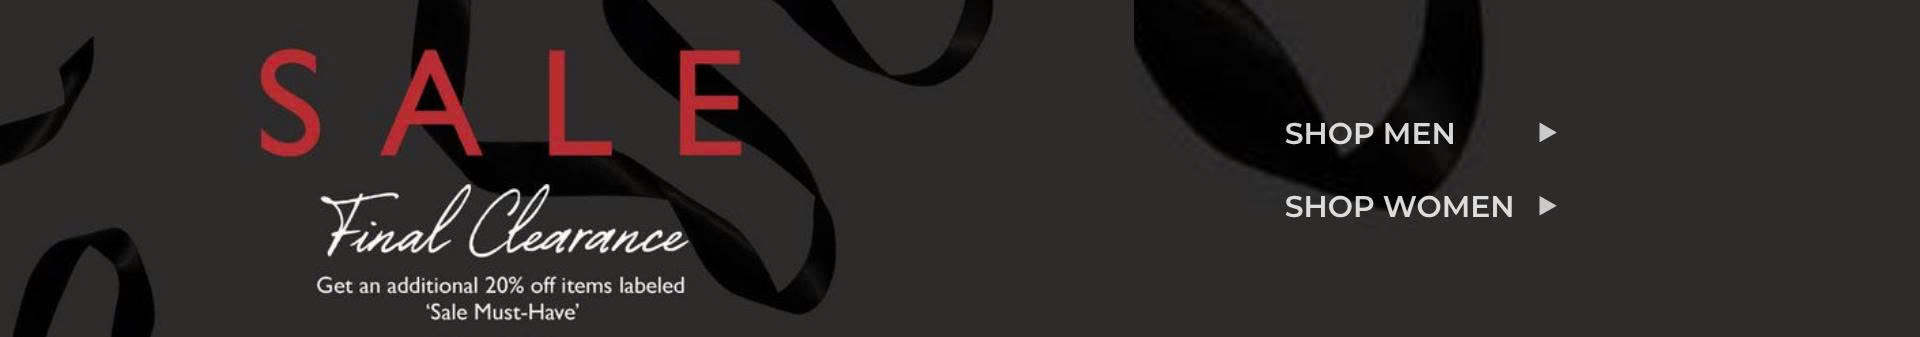
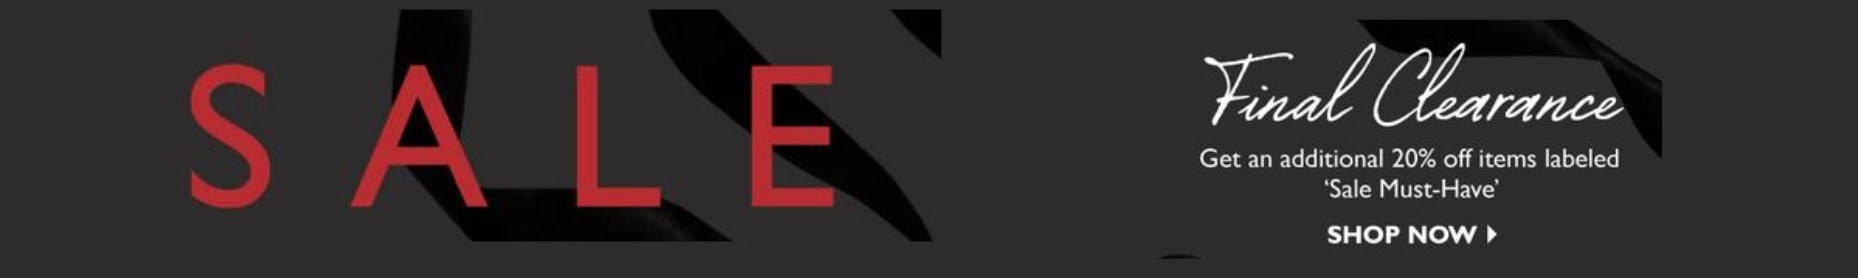
u

diff --git a/desktop.html b/desktop.html
@@ -3882,18 +3882,19 @@ window.RESP = (function () {
      Da dung lai ca 4 phuong an bang PIL roi XEM tung tam, khong suy luan.
      ⇒ CAN ANH XUAT LAI o 1440x186 (hoac bat ky ti le 7,74) thi banner moi day du. Doi anh
      xong thi khong phai sua rule nay, chi bo `object-position` ve 50% 50%.
-     ── ANH DA DOI (cung ngay): nay la "The Jewelry Gift Card Event", 1858x278 = 6,684 ────
-     Ti le o KHONG DOI (1440/186 la con so user chot), nhung anh moi det hon nen chuyen cat
-     khac han: giu 240/278 = 86,3% chieu cao (truoc la 73,6%), va vung chu chi can 211 hang
-     -> VUA, con 29 hang du. Tuc **khong mat chu nao** — khac ban SALE.
-     Nhung `object-position` phai doi tu 31% sang **100%**, va day khong phai chuyen tham my:
-       chu do sam trai tu y 59 den y 269 (do bang PIL: (R - max(G,B)) > 55 VA max(G,B) < 110 —
-       phai co dieu kien thu hai, khong thi mau DA va MOI cua nguoi mau cung dem la chu);
-       cua so cao 240 nen `oy` chi duoc trong [29, 38] moi bao het chu, tuc canh doc >= 76,3%.
-       `50% 50%` (oy = 19) CAT 10 hang duoi, an vao dong "Use code JEWELRY at checkout" va nut
-       "SHOP NOW"; `50% 85%` du chu nhung chi con 3 hang duoi dong cuoi; `50% 100%` giu dung
-       le duoi 9 hang MA CHINH THIET KE co, chi cat 38 hang tren (phan do khong co chu nao).
-     Anh moi ti le 6,684 nen muon cat 0 pixel thi o phai la 1440/215.
+     ── ANH DOI HAI LAN, day la lan thu hai (10/09/2026) ─────────────────────────────────
+     Lan 1 (08/09): "The Jewelry Gift Card Event", 1858x278 = 6,684 — vung chu y 59..269 nen
+     `oy` chi duoc trong [29, 38], phai khai `object-position: 50% 100%`.
+     Lan 2 (10/09): user thay bang ban NGANG MOI cua chinh "Final Clearance", CUNG KHO
+     1858x278. Ti le o KHONG DOI (1440/186 = 7,742 la con so user chot), va o giu 240/278 =
+     86,3% chieu cao.
+     VUNG CHU CUA TAM MOI CHI 199 HANG (y 44..242) nen o con **du 41 hang** — tuc `oy` duoc
+     nam trong [2, 38], gan nhu MOI gia tri canh doc deu giu du chu. Vi vay `object-position`
+     ve **50% 50%** (mac dinh): no thoi la mot con so phai tinh, va de mac dinh thi le con
+     lai 25 tren / 17 duoi, van giu dung quan he "le tren lon hon le duoi" cua chinh art
+     (44/36). Do bang PIL: diem chu DO (R - max(G,B)) > 55 hoac chu TRANG (L > 150).
+     Ti le art la 6,684 nen muon cat 0 pixel thi o phai la 1440/215 — chua doi vi 1440/186 la
+     so user chot, va nay khong mat chu nao nen khong con ly do de doi.
      BO `min-height`: da bo tu luot truoc, va cang khong dat lai — ep chieu cao co dinh o kho
      hep la them mot phep cat nua.
      KHONG dung `h-auto` de "tu theo anh": bang se khong co chieu cao du tru truoc khi anh tai
@@ -7377,19 +7378,26 @@ const HM_QUICK_MAX_ROWS = 2;
    06/09 đang làm banner giữa trang cho mục Ưu đãi; nay dời LÊN TRÊN CÙNG theo đúng mẫu
    khách (mẫu của họ chỉ có banner sale ở đầu trang, không có banner sale thứ hai ở giữa),
    và mục Ưu đãi giữ lại tiêu đề + dải thẻ giảm giá. */
-/* CHIẾN DỊCH MỚI: "The Jewelry Gift Card Event" (08/09/2026, lệnh user *"thay hình này vào
-   promo banner nhé"*). Ảnh khách giao **1858x278 (tỉ lệ 6,684)**, copy nguyên si vào
-   `assets/kv-jewelry-wide.jpg` — KHÔNG mã hoá lại (file gốc đã 121 KB, encode lại chỉ mất chất).
-   `kv-sale-wide.jpg` GIỮ LẠI trên đĩa: khối này là một CÔNG TẮC theo giai đoạn (EOSS / Private
-   sale / event), nên đổi chiến dịch = đổi ĐÚNG MỘT chuỗi ở dòng dưới, không phải dựng lại.
-   ⚠ CHỈ ĐỔI BẢN DESKTOP. Bản mobile vẫn là banner "Final Clearance": ô mobile tỉ lệ 2,500 mà
-   tấm này 6,684 nên object-cover cắt NGANG, cửa sổ chỉ còn 695/1858 = 37,4% bề ngang (canh
-   giữa là x 581..1276) — mà khối chữ nằm ở x 165..674, tức MẤT GẦN HẾT CHỮ. Cần bản mobile
-   riêng của chính thiết kế này (khổ 375x150 hoặc bất kỳ tỉ lệ 2,5).
+/* QUAY VỀ "Final Clearance", NHƯNG LÀ BẢN NGANG MỚI (10/09/2026, user tự thay file rồi bảo
+   *"tôi có đổi cái hình promo banner thành cái này nè, bạn update lại nhé"*).
+   PHÁT HIỆN BẰNG `git status` ĐẦU LƯỢT: `assets/kv-jewelry-wide.jpg` bị XOÁ và có
+   `kv-jewelry-wide.png` MỚI — tức user ghi bản thiết kế khác vào đúng cái khe đó. Đo ra
+   1858x278, y hệt khổ tấm Jewelry, nhưng nội dung là SALE / Final Clearance.
+   ⇒ Đây chính là bản xuất lại mà báo cáo §8.46 đã xin: tấm Final Clearance cũ
+   (`kv-sale-wide.jpg`, 1920x337 = 5,697) thiếu 24 hàng so với ô 1440/186 nên bị cắt chữ.
+   BỎ TÊN `kv-jewelry-*` VÌ NÓ NAY NÓI SAI: nội dung không còn là Jewelry Gift Card Event.
+   Ghi thẳng vào `assets/kv-sale-wide.jpg` — tên có sẵn của ĐÚNG chiến dịch này ở khổ ngang.
+   Bản 1920x337 cũ bị đè, và đè là có chủ ý: nó là phép cắt SAI của cùng thiết kế, không có
+   chỗ dùng. Cần lấy lại thì `git show HEAD:assets/kv-sale-wide.jpg`.
+   PNG -> JPG q88: **169 KB -> 33 KB (-80%)**. Đã kiểm chất lượng chứ không tin quy tắc: sai
+   lệch trung bình 0,44/255, lớn nhất 15; riêng vùng chữ ĐỎ 'SALE' trung bình 0,79 — mắt không
+   thấy. (Lần trước tấm Jewelry giữ nguyên JPG gốc 121 KB nên không phải chuyển.)
+   ✔ HAI BẢN NAY CÙNG MỘT CHIẾN DỊCH: chỗ lệch đã báo ở §8.47 (desktop Jewelry / mobile Final
+   Clearance) tự hết — mobile vẫn `kv-sale.jpg` 736x314 của chính thiết kế này.
    ⚠ `ratio` Ở ĐÂY LÀ TƯ LIỆU, KHÔNG PHẢI THAM SỐ: bản desktop lấy tỉ lệ từ rule CSS
    `.hm-promo` (vì băng tràn viền, không đi qua style inline như bản mobile). Vẫn ghi đúng số
    để nó không nói dối; sửa tỉ lệ thì sửa Ở RULE, không phải ở đây. */
-const HM_PROMO = { img: 'kv-jewelry-wide.jpg', ratio: '1440/186', alt: 'The Jewelry Gift Card Event — nhận thẻ quà tặng, dùng mã JEWELRY', cat: 'Khuyến mãi' };
+const HM_PROMO = { img: 'kv-sale-wide.jpg', ratio: '1440/186', alt: 'Final Clearance — giảm thêm 20%', cat: 'Khuyến mãi' };
 
 /* HERO — 4 SLIDE CÓ VAI (06/09/2026, feedback khách: *"Slider KV: 1. Ecom camp, 2. Brand
    days (#2, #3, #4)"*). Cột `role` là để đọc ra vai, không vẽ ra chữ nào trên ảnh — luật
@@ -7488,7 +7496,7 @@ function hmPromo() {
            Dai hero ngay duoi: lenh sau cung ngay ha khe do ve 4px (pt-1), xem chu thich
            o hmHero. Nen thu tu doc tu tren xuong la nav | promo | 4px | hero. -->
       <a ${dkCatAttrs(HM_PROMO.cat)} class="hm-promo block w-full overflow-hidden bg-secondary cursor-pointer press">
-        <img src="${A}${HM_PROMO.img}" alt="${HM_PROMO.alt}" class="w-full h-full object-cover lazy" style="object-position:50% 100%">
+        <img src="${A}${HM_PROMO.img}" alt="${HM_PROMO.alt}" class="w-full h-full object-cover lazy" style="object-position:50% 50%">
       </a>`;
 }
 
